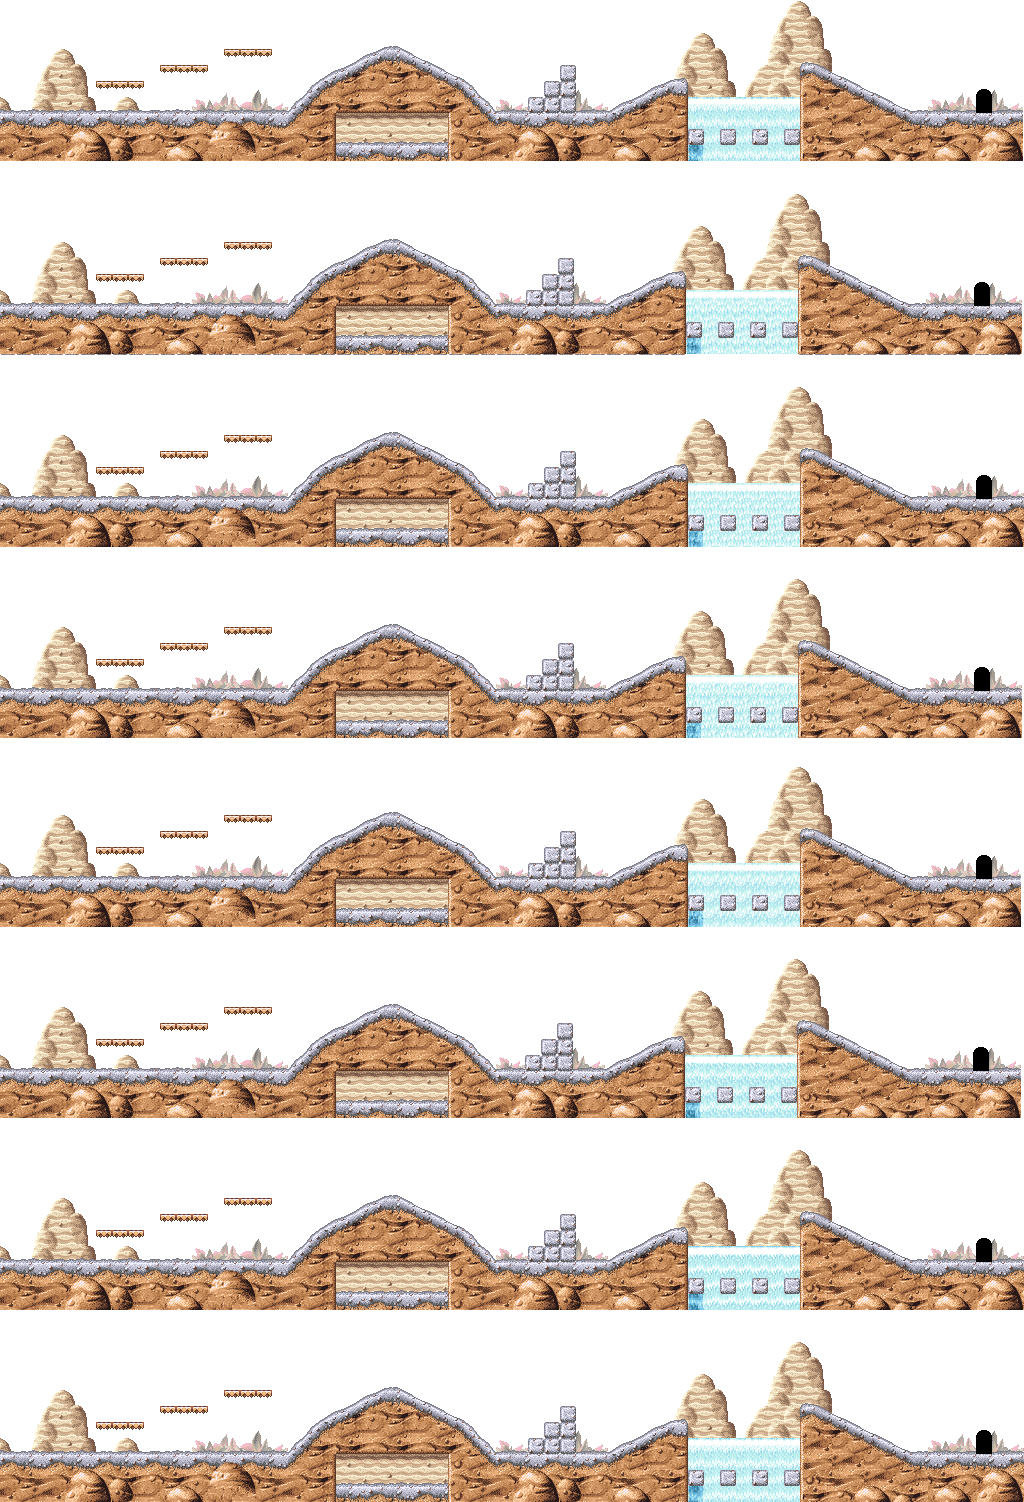
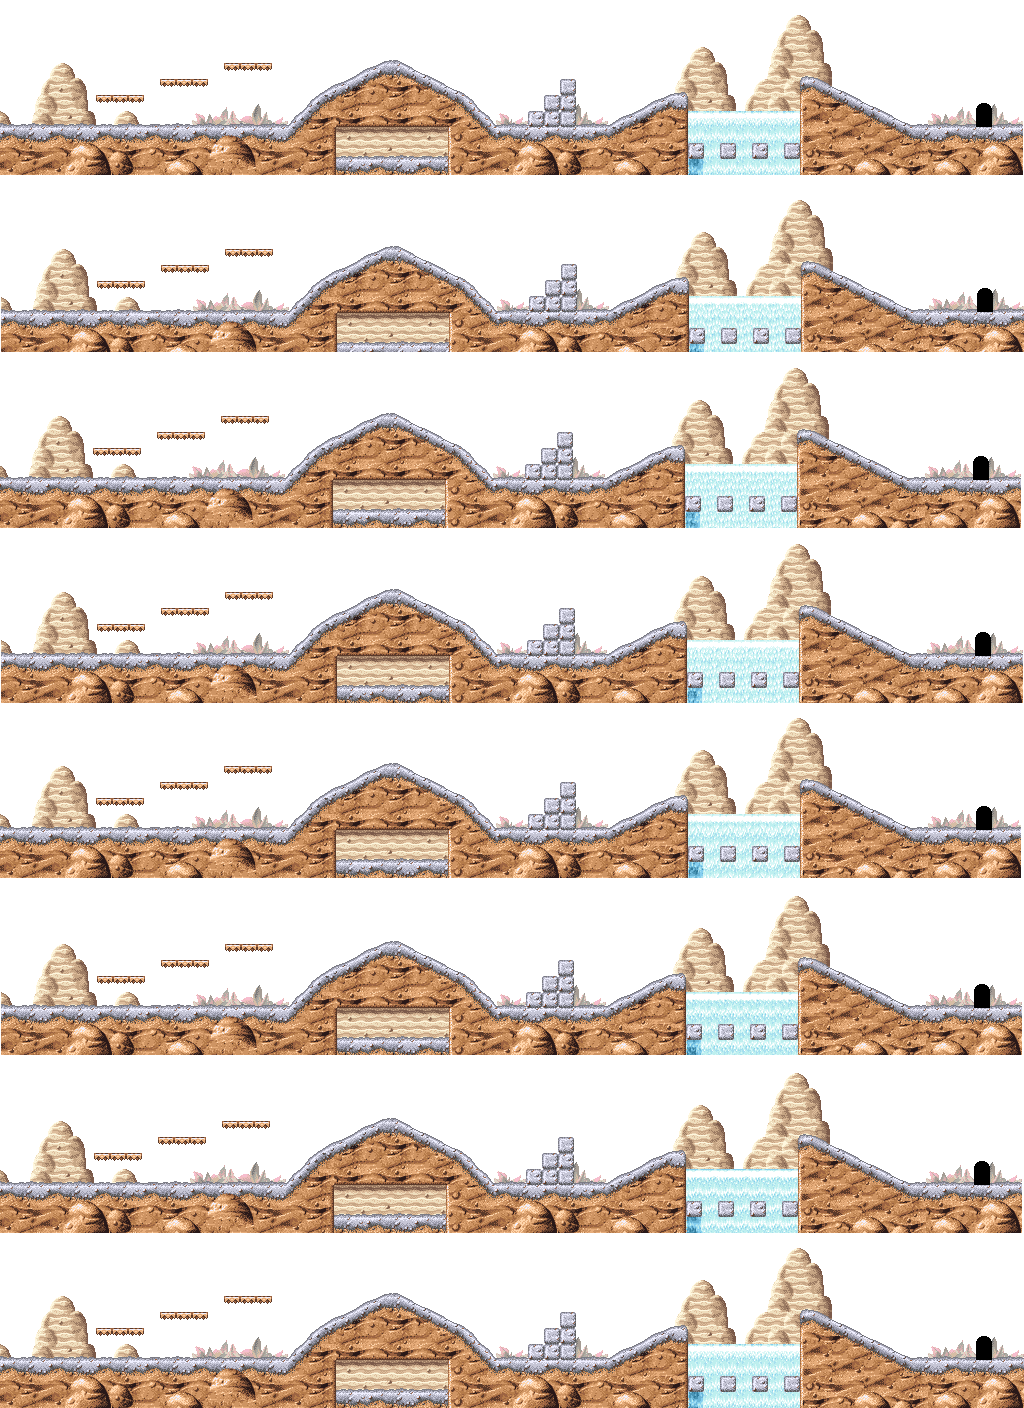
foreground and background drawing

diff --git a/Camera.cs b/Camera.cs
@@ -18,8 +18,14 @@ namespace KirbyNightmareInDreamLand
 
         private Vector3 position;
         private Rectangle bounds;
+
+        // Parallax factor for the background (1.0 = same speed as foreground)
+        public float BackgroundParallaxFactor { get; set; } = 0.5f;
+
+        float levelWidth = Constants.Graphics.LEVEL_WIDTH;
         public Matrix LevelMatrix { get; set; }
         public Matrix ScreenMatrix { get; set; }
+        public Matrix backgroundMatrix { get; set; }
 
         public Camera(Game1 game)
         {
@@ -34,36 +40,79 @@ namespace KirbyNightmareInDreamLand
 
         public void Update()
         {
-            // ATROCIOUS COUPLING, I KNOW- i just wanted to get it working, i'll fix it later T______T
-            if (_game.level.room.CameraXLock)
-            {
-                position.X = _game.level.room.LockedCameraX;
-            }
-            else
-            {
-                position.X = _targetPlayer?.GetKirbyPosition().X - Constants.Graphics.GAME_WIDTH / 2 ?? position.X;
-            }
-            if (_game.level.room.CameraYLock)
-            {
-                position.Y = _game.level.room.LockedCameraY;
-            }
-            else
-            {
-                position.Y = _targetPlayer?.GetKirbyPosition().Y - Constants.Graphics.GAME_HEIGHT / 2 ?? position.Y;
-            }
-            position.Floor();
-
-            // Adjust the X and Y of the bounds Rectangle
-            bounds.X = (int)position.X;
-            bounds.Y = (int)position.Y;
-
-            // Update matrices
-            float scale = _game.WINDOW_HEIGHT / Constants.Graphics.GAME_HEIGHT;
-            LevelMatrix = Matrix.CreateTranslation(-position) * Matrix.CreateScale(scale) * Matrix.CreateTranslation(_game.WINDOW_XOFFSET, _game.WINDOW_YOFFSET, 0);
-            ScreenMatrix = Matrix.CreateScale(scale) * Matrix.CreateTranslation(_game.WINDOW_XOFFSET, _game.WINDOW_YOFFSET, 0);
+            UpdateCameraPosition();
+            UpdateBounds();
+            UpdateMatrices();
         }
 
-        public void TargetPlayer(IPlayer targetPlayer)
+        public void UpdateCameraPosition()
+        {
+            float targetX = _targetPlayer?.GetKirbyPosition().X ?? position.X;
+            float newCameraX = targetX - Constants.Graphics.GAME_WIDTH / 2;
+
+            // Check if Kirby is at the edge of the terrain
+            if (newCameraX < 0)
+            {
+                newCameraX = 0; // Prevent moving left off the screen
+            }
+            else if (newCameraX > levelWidth - Constants.Graphics.GAME_WIDTH)
+            {
+                newCameraX = levelWidth - Constants.Graphics.GAME_WIDTH; // Prevent moving right off the terrain
+            }
+
+            // Update the camera's position
+            position.X = newCameraX;
+
+
+            // ATROCIOUS COUPLING, I KNOW- i just wanted to get it working, i'll fix it later T______T
+            //if (_game.level.room.CameraXLock)
+            //{
+            //    position.X = _game.level.room.LockedCameraX;
+            //}
+            //else
+            //{
+            //    position.X = _targetPlayer?.GetKirbyPosition().X - Constants.Graphics.GAME_WIDTH / 2 ?? position.X;
+            //}
+            //if (_game.level.room.CameraYLock)
+            //{
+            //    position.Y = _game.level.room.LockedCameraY;
+            //}
+            //else
+            //{
+            //    position.Y = _targetPlayer?.GetKirbyPosition().Y - Constants.Graphics.GAME_HEIGHT / 2 ?? position.Y;
+            //}
+            //position.Floor();
+
+            position.X = (float)Math.Floor(position.X);
+            position.Y = (float)Math.Floor(position.Y);
+
+        }
+
+        public void UpdateBounds()
+        {
+            bounds.X = (int)position.X;
+            bounds.Y = (int)position.Y;
+        }
+
+        public void UpdateMatrices()
+        {
+            float scale = _game.WINDOW_HEIGHT / Constants.Graphics.GAME_HEIGHT;
+
+            // Calculate background position for parallax effect
+            Vector3 backgroundPosition = new Vector3(
+                position.X * BackgroundParallaxFactor,
+                position.Y * BackgroundParallaxFactor,
+                position.Z
+            );
+
+            // Update the LevelMatrix for the foreground
+            LevelMatrix = Matrix.CreateTranslation(-position.X, -position.Y, 0) * Matrix.CreateScale(scale);
+
+            // Update the background matrix for the background
+            backgroundMatrix = Matrix.CreateTranslation(-backgroundPosition.X, -backgroundPosition.Y, 0) * Matrix.CreateScale(scale);
+        }
+
+            public void TargetPlayer(IPlayer targetPlayer)
         {
             _targetPlayer = targetPlayer;
         }

diff --git a/Level/Level.cs b/Level/Level.cs
@@ -12,6 +12,9 @@ namespace KirbyNightmareInDreamLand
 
         private Game1 _game;
         private Camera _camera;
+
+        public float BackgroundParallaxFactor { get; set; } = 0.85f;
+
         // Make private later probably, coupling issues
         public Room room;
 
@@ -66,7 +69,12 @@ namespace KirbyNightmareInDreamLand
         {
             if (room.BackgroundSprite != null)
             {
-                room.BackgroundSprite.Draw(Vector2.Zero, spriteBatch); // Draw at origin or wherever it should be
+                Vector2 backgroundPosition = new Vector2(
+                    _camera.GetPosition().X * BackgroundParallaxFactor,
+                    _camera.GetPosition().Y * BackgroundParallaxFactor
+                );
+
+                room.BackgroundSprite.Draw(backgroundPosition, spriteBatch); // Draw at origin or wherever it should be
             }
         }
 
@@ -74,7 +82,7 @@ namespace KirbyNightmareInDreamLand
         {
             if (room.ForegroundSprite != null)
             {
-                room.ForegroundSprite.Draw(new Vector2(100,100), spriteBatch); // Draw at origin or wherever it should be
+                room.ForegroundSprite.Draw(Vector2.Zero, spriteBatch); // Draw at origin or wherever it should be
             }
         }
 
@@ -83,12 +91,16 @@ namespace KirbyNightmareInDreamLand
         {
 
             // Draw background 
-            // DrawBackground(spriteBatch);
+            DrawBackground(spriteBatch);
 
             // Draw the room's foreground
             DrawForeground(spriteBatch);
+        }
 
-
+        public void UpdateLevel(SpriteBatch spriteBatch)
+        {
+            room.ForegroundSprite.Update();
+            
         }
 
         // Debug mode (toggle F2), draws the usually-invisible collision tiles.

diff --git a/Constants.cs b/Constants.cs
@@ -8,11 +8,13 @@ namespace KirbyNightmareInDreamLand
         {
             public const int GAME_WIDTH = 240;
             public const int GAME_HEIGHT = 160;
-
             public const bool IS_FULL_SCREEN = false;
             public const int FLOOR = 128;
             public const bool DEBUG_SPRITE_MODE = false;
-        } 
+
+            public const int LEVEL_WIDTH = 1024;
+
+        }
 
         public static class Physics
         {

diff --git a/Game1.cs b/Game1.cs
@@ -216,7 +216,7 @@ namespace KirbyNightmareInDreamLand
             LevelLoader.Instance.LoadAllContent(this, Content, GraphicsDevice);
 
             level = new Level(this);
-            level.LoadRoom("testroom1");
+            level.LoadRoom("room1");
 
             // Load all objects
             LoadObjects();
